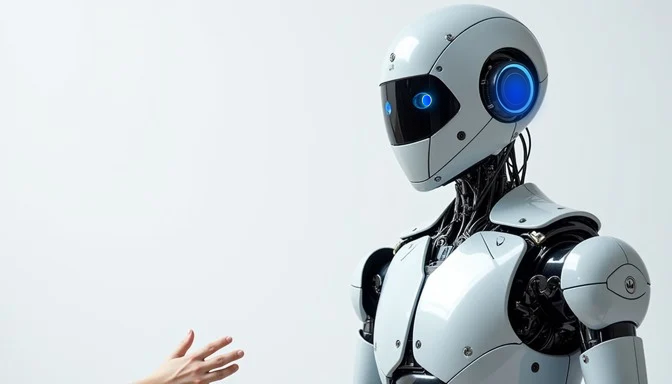
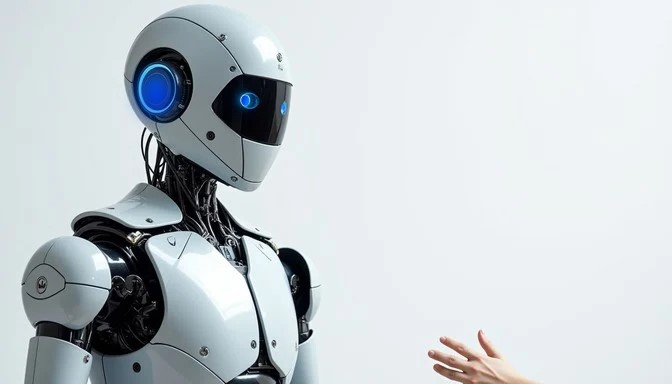
go

diff --git a/src/sponsorship/HeadTier.jsx b/src/sponsorship/HeadTier.jsx
@@ -43,7 +43,7 @@ const HeadTier = () => {
 
   return (
     <section>
-      <div className="relative w-screen h-[80vh] md:h-[90vh] overflow-hidden bg-tie">
+      <div className="relative w-screen h-[80vh] md:h-[90vh] overflow-hidden bg-white">
 
         {/* LEFT TEXT */}
         <div className="absolute top-40 left-3 md:left-12 -translate-y-1/2 z-20 text-left max-w-[90vw]">
@@ -65,7 +65,7 @@ const HeadTier = () => {
             className=" 
               object-cover
               w-full h-full
-              lg:object-contain 
+           
               will-change-transform
             "
           />

diff --git a/src/faq/FaqAbout.jsx b/src/faq/FaqAbout.jsx
@@ -43,7 +43,7 @@ const FaqAbout = () => {
 
   return (
     <section>
-      <div className="relative w-screen h-[80vh] md:h-[85vh] overflow-hidden bg-faq">
+      <div className="relative w-screen h-[80vh] md:h-[85vh] overflow-hidden bg-white">
 
         {/* LEFT TEXT */}
         <div className="absolute top-40 left-3 md:left-12 -translate-y-1/2 z-20 text-left max-w-[90vw]">
@@ -65,7 +65,7 @@ const FaqAbout = () => {
             className="
               w-full h-full
               object-cover
-            lg:object-contain
+          
               will-change-transform
             "
           />

diff --git a/src/home/SpeakerHead.jsx b/src/home/SpeakerHead.jsx
@@ -43,7 +43,7 @@ const SpeakerHead = () => {
 
   return (
     <section>
-      <div className="relative w-screen h-[80vh] md:h-[90vh] overflow-hidden bg-um">
+      <div className="relative w-screen h-[80vh] md:h-[90vh] overflow-hidden bg-white">
 
         {/* LEFT TEXT */}
         <div className="absolute top-40 left-3 md:left-12 -translate-y-1/2 z-20 text-left max-w-[90vw]">
@@ -65,7 +65,7 @@ const SpeakerHead = () => {
             className=" 
               object-cover
               w-full h-full
-              lg:object-contain 
+
               will-change-transform
             "
           />

diff --git a/src/assets/index.js b/src/assets/index.js
@@ -4,7 +4,7 @@ import redd from './redd.png'
 import crowd from './crowd.png'
 import med from './medical.png'
 import globe from './globe.jpeg'
-import scope from './scope.png'
+import scope from './scope.jpg'
 import arrow from './arrow.png'
 import arrw from './arrw.png'
 import session from './session.png'

diff --git a/src/home/Speaker.jsx b/src/home/Speaker.jsx
@@ -18,7 +18,7 @@ const Speaker = () => {
  
 
   return (
-    <div className="w-full bg-wite overflow-hidden">
+    <div className="w-full bg-white overflow-hidden">
 
       
 
